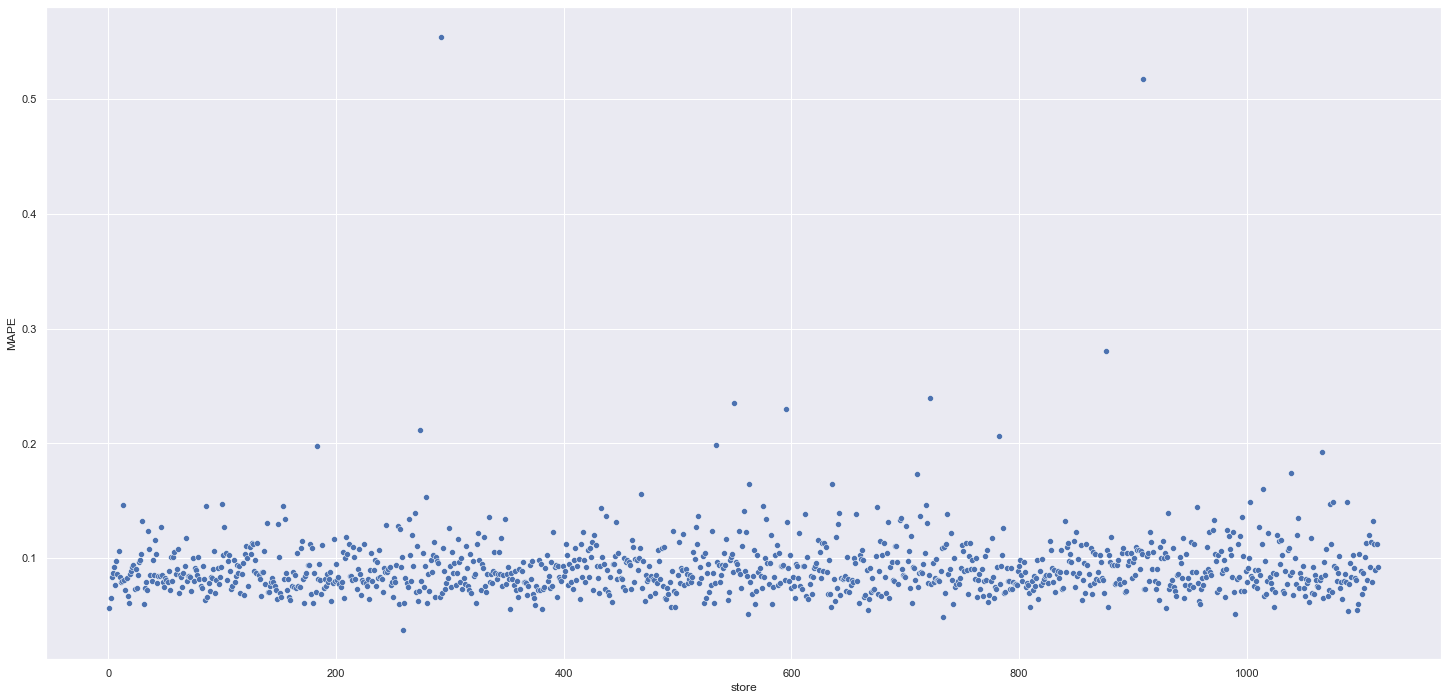
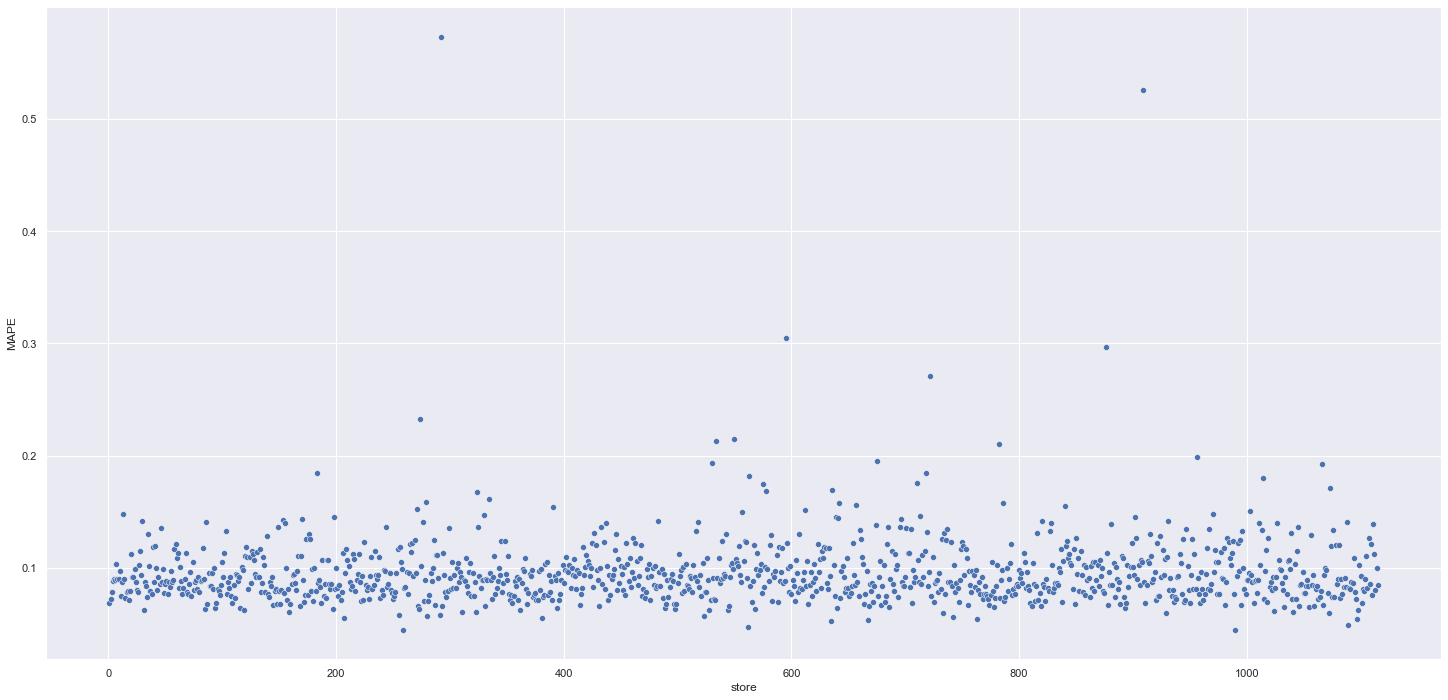
new commit

Changed region(s): [[0.0622, 0.72, 0.9634, 0.9], [0.0, 0.63, 0.0311, 0.66]]

diff --git a/README.md b/README.md
@@ -94,11 +94,11 @@ Na primeira parte da etapa foi realizado a avaliação simples do modelo (Single
 
 | Model Name | MAE | MAPE | RMSE |
 |  --- | --- | --- | --- |
-| Random Forest Regressor | 696.477809 | 0.103411 | 1029.574986 |
+| Random Forest Regressor | 679.598831 | 0.099913 | 1011.119437|
 | Average Model	 | 1354.800353 | 0.206400 | 1835.135542|
-| Linear Regression | 1868.313299|0.292392 | 2674.576594 |
+| Linear Regression | 1867.089774 |0.292694 | 2671.049215 |
 | Linear Regression - Lasso | 1891.704881 | 0.289106| 2744.451737 |
-| XGBoost Regressor | 6682.604070 | 0.949328 | 7329.887823 |
+| XGBoost Regressor | 6683.423528 | 0.949439 | 7330.693347 |
 
 
 Mesmo o modelo XGBoost nao performando com um resultado muito bom em primeiro momento, após a etapa de *Hyperparameter fine tuning* onde foram ajustados os parâmetros, o modelo apresentou bons resultados. A escolha deste modelo tambem foi baseada no tempo de processamento do algoritmo, que é muito menor que o Random Forest, significando redução de custos de processamento e cloud.
@@ -109,7 +109,7 @@ Mesmo o modelo XGBoost nao performando com um resultado muito bom em primeiro mo
 
 | Model Name | MAE | MAPE | RMSE |
 |  --- | --- | --- | --- |
-| XGBoost Regressor | 632.810733 | 0.091442 | 921.441998 |
+| XGBoost Regressor | 650.631529 | 0.095503 | 944.394141 |
 
 # 6. Resultado Final
 
@@ -121,19 +121,19 @@ Com o modelo selecionado e treinado, as 5 melhores lojas apresentaram a performa
 
 | ID da Loja |     Previsões |  Pior Cenário | Melhor Cenário |       MAE |   MAPE |
 | :--------- | ------------: | ------------: | -------------: | --------: | -----: |
-| 258        | \$ 543.536,00 | \$ 543.043,79 |  \$ 544.028,20| \$ 492,20 | 0.0377 |
-| 732        | \$ 631.405,37 | \$ 630.688,45 |  \$ 632.122,29 | \$ 716,92 | 0.0487 |
-| 561       | \$ 734.331,18 | \$ 733.445,24 |  \$ 735.217,12 | \$ 885,94| 0.0513 |
-| 989       | \$ 230.974,42 | \$ 230.645,26 |  \$ 231.303,57 | \$ 329,15 | 0.0518 |
-| 1088        | \$ 391.805,59 | \$ 391.252,36 |  \$ 392.358,81 | \$ 553,22 | 0.0542 |
+| 258        | \$ 532.274,68 | \$ 531.697,52 |  \$ 532.851,84| \$ 577,16 | 0.0448 |
+| 989        | \$ 237.385,98 | \$ 237.099,80 |  \$ 237.672,16 | \$ 286,18 | 0.04449 |
+| 561       | \$ 748.898,56 | \$ 748.112,22 |  \$ 749.684,90 | \$ 786,33| 0.0473 |
+| 1088       | \$ 384.975,09 | \$ 384.461,06 |  \$ 385.489,12 | \$ 514,03 | 0.0491 |
+| 634        | \$ 212.896,73| \$ 212.605,94 |  \$ 213.187,52 | \$ 290,79 | 0.0527 |
 
 Como resultado final, temos os seguintes cenários:
 
 | Cenários       |    Valores        |
 | :------------- | ----------------: |
-| Previsão Feita | \$ 283.242.240,00 |
-| Pior Cenário   | \$ 282.532.641,95 |
-| Melhor Cenário | \$ 283.951.868,44 |
+| Previsão Feita | \$ 285.645.120,00 |
+| Pior Cenário   | \$ 284.915.711,74 |
+| Melhor Cenário | \$ 286.374.532,85 |
 
 # 7. Deploy
 
